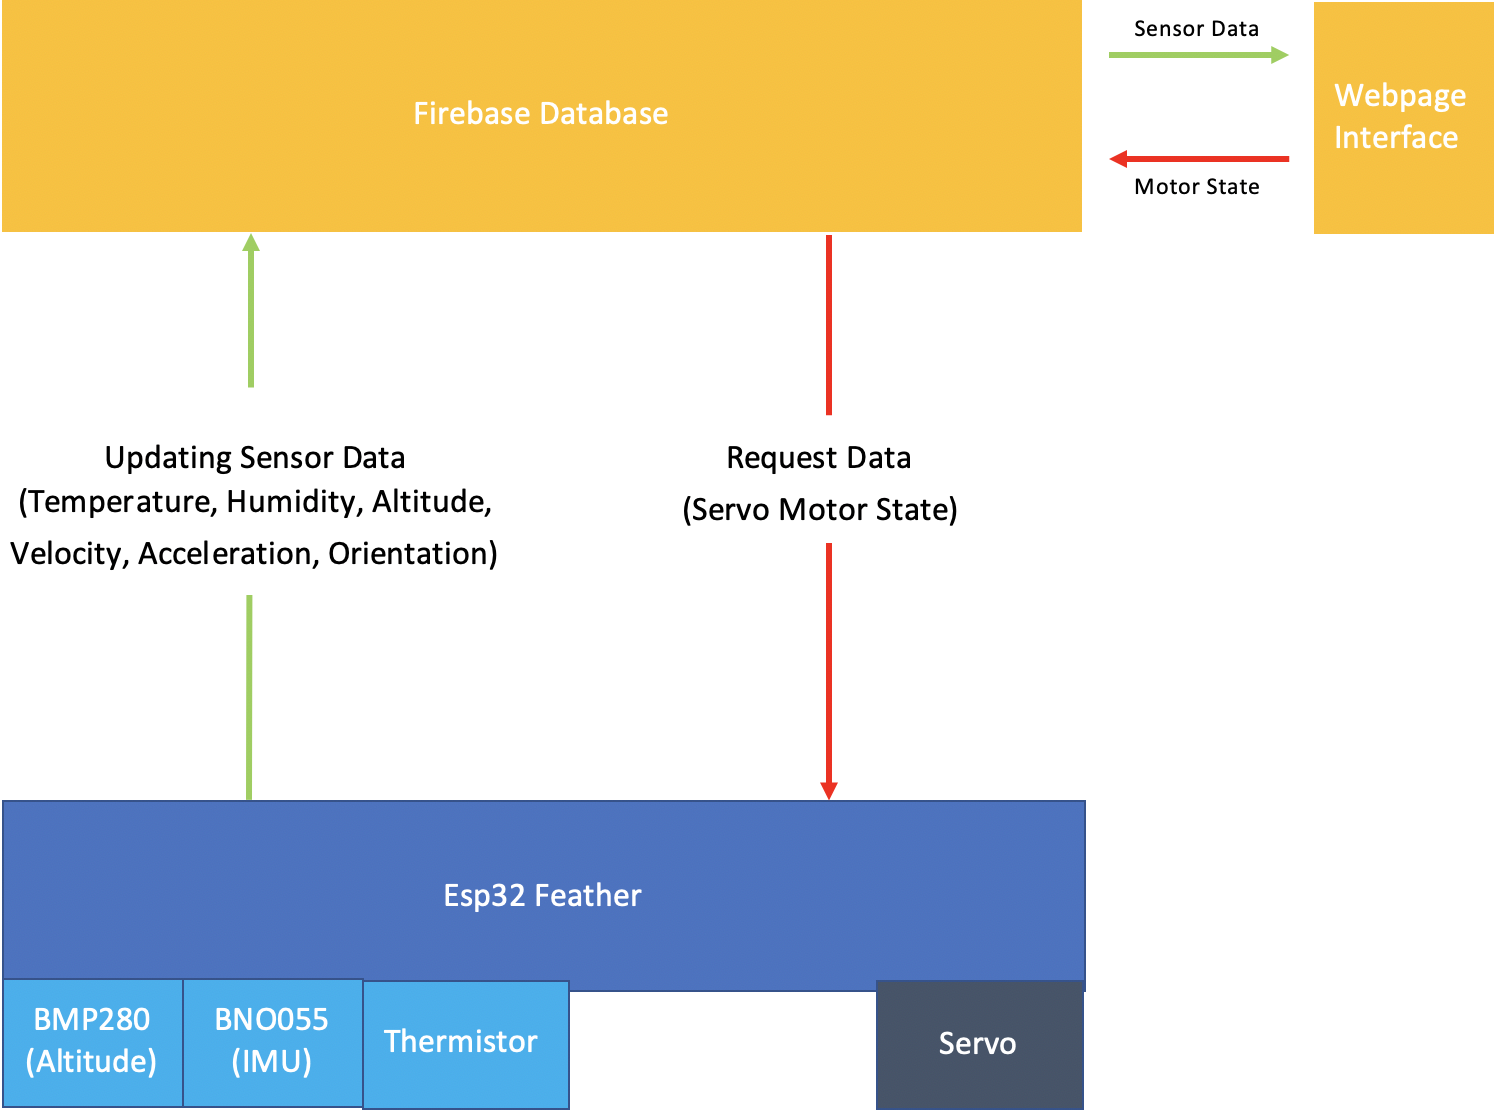
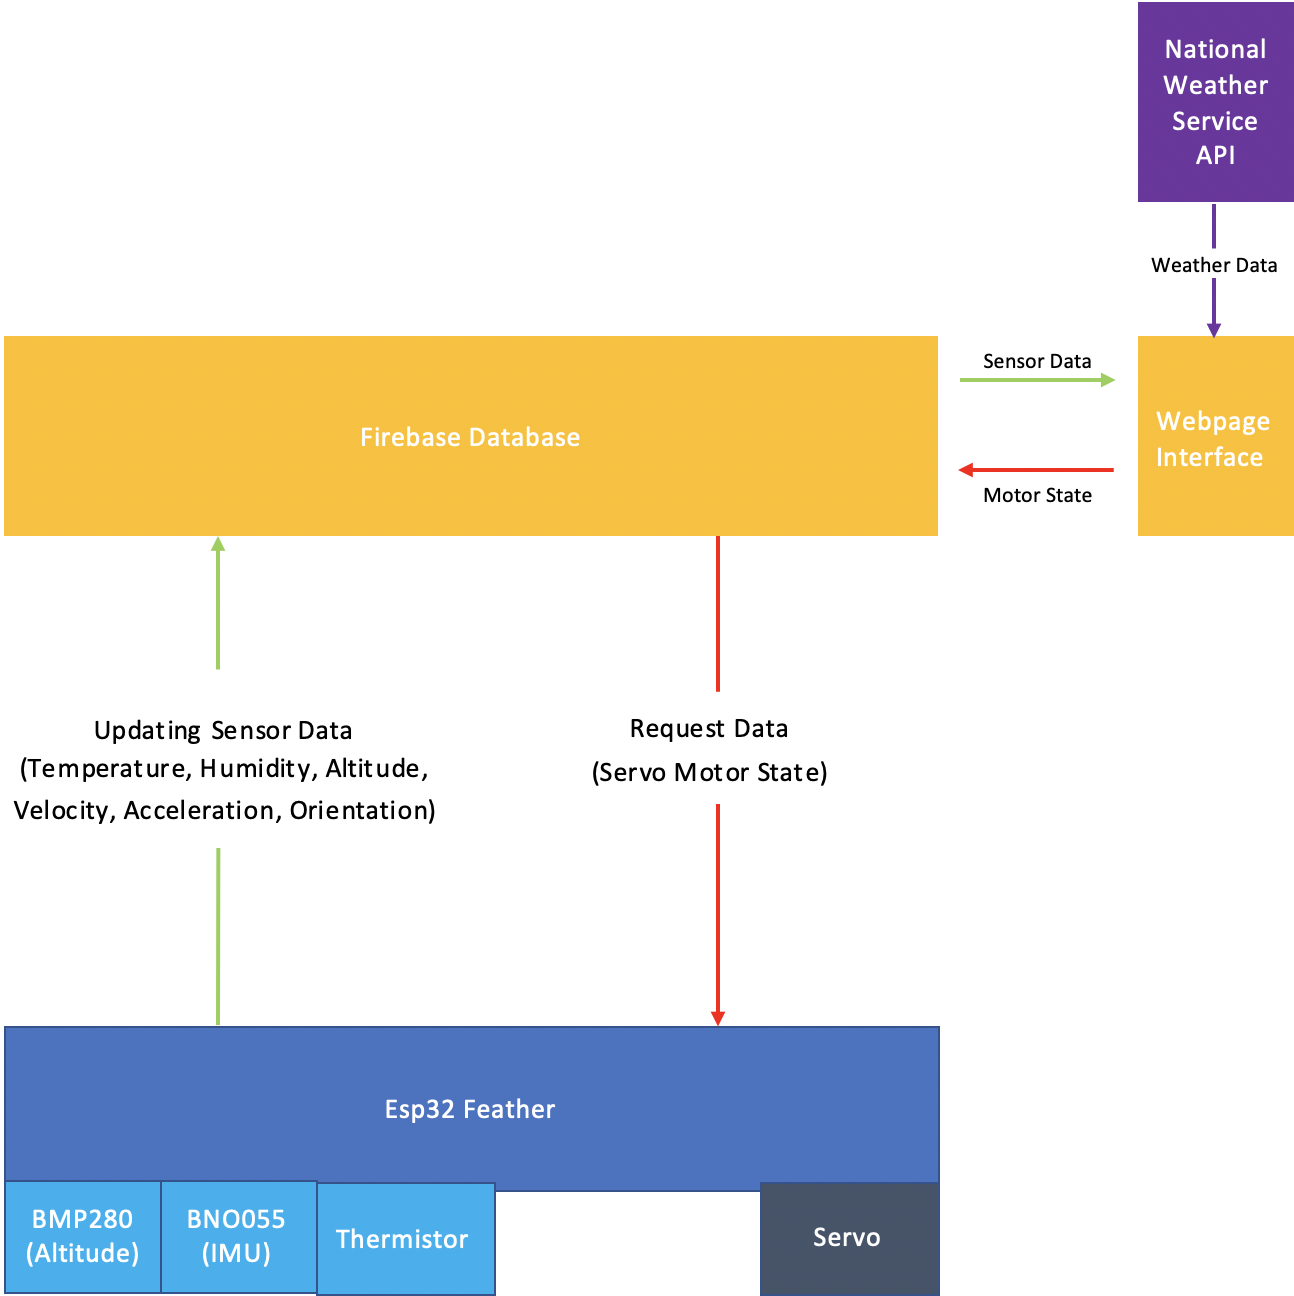
added day 9 documentation

diff --git a/09_Networking/index.html b/09_Networking/index.html
@@ -1,0 +1,249 @@
+<!DOCTYPE html>
+<html>
+<head>
+    <title>Dan Bi PHYS_S-12 Documentation</title>
+    <meta charset="utf-8">
+    <meta name="viewport" content="width=device-width, initial-scale=1">
+    <script src="https://code.jquery.com/jquery-3.5.1.min.js"></script>
+    <link rel="stylesheet" href="https://maxcdn.bootstrapcdn.com/bootstrap/4.4.1/css/bootstrap.min.css">
+    <script src="https://maxcdn.bootstrapcdn.com/bootstrap/4.4.1/js/bootstrap.min.js"></script>
+    <!-- Arduino Code CSS -->
+    <link rel="stylesheet" href="//cdnjs.cloudflare.com/ajax/libs/highlight.js/9.12.0/styles/arduino-light.min.css">
+    <script src="//cdnjs.cloudflare.com/ajax/libs/highlight.js/9.8.0/highlight.min.js"></script>
+    <script src="//cdnjs.cloudflare.com/ajax/libs/highlight.js/9.12.0/languages/arduino.min.js"></script>
+    <script>hljs.initHighlightingOnLoad();</script>
+    <!-- Arduino Code CSS -->
+    <link href="../style.css" rel="stylesheet">
+</head>
+
+<body>
+    <div class = "container-fluid">
+        <header>
+            <h1>
+                <a href="https://wujibi123.github.io/PHYS_S-12/" class="site-header">
+                <span class="orange">PHYS S-12</span>
+                <span class="light-gray">:</span>
+                <span class="pretty-blue"> Dan's Documentation</span></a>
+            </h1>
+        </header>
+
+        <button onclick="topFunction()" id="topBtn" title="Go to top">Top</button>
+
+        <div class="date-header">
+            <h1>Networking</h1>
+            <span class="meta">Day 9: 7/21</span>
+        </div>
+
+        <div class="row">
+            <div class="col-sm-12">
+                <p>
+                    <a href="../webInterface/index.html">Product of Today's Work</a>
+                </p>
+                <p>
+                    Networking will be a big part of my project as I can't have hardwire connections from my laptop to a flying Huzzah. Today I'll try to setup WAN connections with my ESP32 via a firebase server. While a LAN connection is more than enough for me, I feel more comfortable with firebase, which allows me to easily establish a database and website. On the other hand, I would have to code everything on the Arduino IDE for a LAN only connection.
+                </p>
+
+                <!-- New Section -->
+                <h2>Learning</h2>
+                <p>
+                    I started off by following the tutorials. A few problems arose due to mismatched versions of firebase, but I easily fixed them. The real issue was GitHub pages. For some unknown reasons, Github couldn't load my code onto my website.
+                </p>
+                <figure>
+                    <img src = "github_error.png" alt = "Github error" style="width:100%">
+                    <figcaption>Github Error</figcaption>
+                </figure>
+                <p>
+                    After a good two hours of struggling, Github finally seemed to fix itself.
+                </p>
+                <p>
+                    Next, I went on Firebase's <a href="https://firebase.google.com/docs/reference/js/firebase.database" reference page</a> and the <a href="https://github.com/mobizt/Firebase-ESP32/blob/master/src/README.md">esp32 firebase library</a> to learn how to send and request informations between an esp32, a database, and a website.
+                </p>
+                <p>
+                    The two functions I found particularly useful were <code>set()</code> and <code>update()</code>, which both allow me to make realtime changes to the database. The former completely replaces the preexisting data in a specified node, while the latter only changes one of its values. 
+                </p>
+
+                <!-- New Section -->
+                <h2>Planning</h2>
+                <p>
+                    A drew up a plan for the networking side of my final project.
+                </p>
+                <figure>
+                    <img src = "network_structure.png" alt = "Network Structure" style="width:100%">
+                    <figcaption>Network Structure</figcaption>
+                </figure>
+                <p>
+                    I don't have the IMU and the Altimeter ready at the moment since I need to solder them at my friend's place. So for now, I will just build the database for the thermistor and the servo.
+                </p>
+
+                <!-- New Section -->
+                <h2>ESP32 Feather</h2>
+                <p>
+                    I started off by hooking up the thermistor and the servo, and writing code to transmit their data to the database. I used the following code to build the database structure.
+                </p>
+<pre><code class="language-arduino">
+void setup() {
+    //…
+    //…
+    //...
+// Set initial data to 0. Not sure if some of these will be in "double", I'll fix this once I start testing the sensors
+Firebase.setDouble(firebaseData, root + "Sensors/Temperature/Data", 0);
+Firebase.setDouble(firebaseData, root + "Sensors/Humidity/Data", 0);
+Firebase.setDouble(firebaseData, root + "Sensors/Altitute/Data", 0);
+Firebase.setDouble(firebaseData, root + "Sensors/Velocity/Data", 0);
+Firebase.setDouble(firebaseData, root + "Sensors/Orientation/Data", 0);
+
+Firebase.setInt(firebaseData, root + "Motors/Servo/Data", 0); // set initial Servo angle to 0. (from 0 to 180)
+//…
+    //…
+    //...
+}
+</code></pre>
+                <figure>
+                    <img src = "database_structure.png" alt = "database structure" style="width:100%">
+                    <figcaption>Database Structure</figcaption>
+                </figure>
+                <p>
+                    I added other sensor values that I won't be able to use yet, but it's good to plan ahead and write them in advance.
+                </p>
+                <p>
+                    Then I converted my thermistor code from <a href="../07_ElectronicInput/index.html">day 7</a> into a function and called it within the main loop.
+                </p>
+
+                <!-- New Section -->
+                <h2>Thermistor Problems</h2>
+                <p>
+                    I quickly ran into problems with my <code class="language-arduino">analogRead()</code> when I started testing. After fooling around for half an hour, I found this very helpful <a href="https://github.com/espressif/arduino-esp32/issues/102">GitHub thread</a>. Basically, all the ADC#2 pins on the esp32 are being used while Wifi is enabled. This meant that my analogRead pins were limited to A2, A3, A4, A7, and A9.
+                </p>
+                <p>
+                    Anyways, I quickly switched pins, and it worked!
+                </p>
+                <figure>
+                    <iframe src="https://giphy.com/embed/l1xxsB6fQgS42cyyTa" style="position:relative; width:100%" height=400rem frameBorder="0" class="giphy-embed" allowFullScreen></iframe>
+                    <figcaption>Database Changing According to Thermistor</figcaption>
+                </figure>
+                <p>
+                    Unfortunately, this pin reads in data slightly differently from the one I used for the calibration, pin 13. When I turn off the Wifi and use pin 13, it is always accurate. As a result of this difference in reading signals between these pins, my temperature reading is now 4 degrees off.
+                </p>
+
+                <!-- New Section -->
+                <h2>Servo Motor</h2>
+                <p>
+                    I copied and pasted servo code from <a href="../04_RapidPrototyping/index.html#improve_steering">day 4</a>. This turned out to be smooth sailing, and now the Servo motor responds when I change the database.
+                </p>
+                <p>
+                    You can see my esp32 networking code <a href="./esp32_network.ino" download>here</a>.
+                </p>
+
+                <!-- New Section -->
+                <h2>Web Interface</h2>
+                <p>
+                    I finished linking my esp32 to my database, but now I need a webpage to act as an interface for the database.
+                </p>
+                <p>
+                    I want to add a textfield that let's me change the servo's angle, and I want to display the thermistor's temperature as well.
+                </p>
+                <p>
+                    To achieve the first goal, I threw together some javaScript and an html form.
+                </p>
+<pre><code>
+&ltbody&gt
+    //…
+    //…
+    //...
+&ltform&gt
+    &ltlabel for="vol"&gtServo Angle (between 0 and 180):&lt/label&gt
+    &ltinput type="range" id="angle" name="angle" min="0" max="180" onchange="updateServo()"&gt
+&lt/form&gt
+//…
+//...
+    //...
+&lt/body&gt
+
+&ltscript&gt
+    //…
+    //…
+    //...
+function updateServo(){
+    var angle = document.getElementById('angle').value * 1.0;
+    console.log("Current Angle" + angle);
+    ref.update({
+        "Motors/Servo/Data": angle
+    });
+}
+    //…
+    //…
+    //...
+&lt/script&gt
+</code></pre>
+                <p>
+                    To see this for yourself, go <a href="../webInterface/index.html">here</a>.
+                </p>
+
+                <!-- New Section -->
+                <h2>Temperature reading</h2>
+                <p>
+                    This required me to read data from the database using javaScript. It wasn't too difficult after I learned about the <code>on()</code> function in the firebase library. It lets me take a <code>DataSnapshot</code> of my database when a sepecified <code>event</code> occurs.
+                </p>
+<pre><code>
+var tempRef = firebase.database().ref("/Sensors/Temperature/Data")
+tempRef.on('value', function(tempDataSnapshot) {
+    var temp = tempDataSnapshot.val();
+    document.getElementById("tempDisplay").innerHTML = temp;
+});
+</code></pre>
+                <figure>
+                    <iframe src="https://giphy.com/embed/URw8XhvDb4LVd1LF26" style="position:relative; width:100%" height=400rem frameBorder="0" class="giphy-embed" allowFullScreen></iframe>
+                    <figcaption>Website Changing According to Thermistor</figcaption>
+                </figure>
+
+                <!-- New Section -->
+                <h2>Weather API</h2>
+                <p>
+                    I want to display weather data on my website, since knowing the weather will make flying the hot air balloon easier.
+                </p>
+                <p>
+                    I did some digging online and found the endpoint for Boston's weather: <a href="https://api.weather.gov/stations/KBOS/observations/latest">https://api.weather.gov/stations/KBOS/observations/latest</a>.
+                </p>
+                <p>
+                    I wasn't quite sure how to request data from APIs using javaScript. After learning about various methods from this <a href="https://levelup.gitconnected.com/all-possible-ways-of-making-an-api-call-in-plain-javascript-c0dee3c11b8b">very helpful article</a>, I landed on Axios. It provided me with a very easy way to pull data from an API, and it also automatically parses the JSON response into a javaScript object.
+                </p>
+                <p>
+                    Here is the function I wrote for the API request.
+                </p>
+<pre><code>
+function getWeather() {
+    axios.get('https://api.weather.gov/stations/KBOS/observations/latest')
+        .then((response) => {
+            document.getElementByID("time").innerHTML = "Time: " +  response.data.properties.timestamp;
+            document.getElementByID("temp").innerHTML = "Outside Temperature (Celsius): " +  response.data.properties.temperature.value;
+            document.getElementByID("wind").innerHTML = "Wind Direction (degree): " +  response.data.properties.windDirection.value + ", Wind Speed (km/h): " +  response.data.properties.windSpeed.value;;
+            document.getElementByID("humid").innerHTML = "Humidity (percent): " +  response.data.properties.relativeHumidity.value;
+    });
+}
+</code></pre>
+                <p>
+                    Sometimes the values sent in by the API will be null. I double checked that it wasn't my fault by going to the endpoint myself. Sadly, I can't stop the National Weather Service from changing their database, so I can't do anything about it.
+                </p>
+                <p>
+                    Again, go to the <a href="../webInterface/index.html">interface</a> to test it out yourself.
+                </p>
+                <p>
+                    <a href="../webInterface/script.js" download>Download My JavaScript File</a>
+                    <br>
+                    <a href="../webInterface/index.html" download>Download My HTML File</a>
+
+                </p>
+
+
+                <!-- New Section -->
+                <h2>Future Plans</h2>
+                <p>
+                    Although I now have the underlying logic of the website, I still need to make it a lot more visually appealing. It would be nice to be able to control the Servo motor with a virtual knob. On top of that, I'll need to incorporate more sensors as I start soldering them. 
+                </p>
+            </div> <!-- column end -->
+        </div> <!-- row end -->
+    </div> <!-- container end -->
+
+    <script src="../scripts/back_top.js"></script>
+</body>
+</html>
